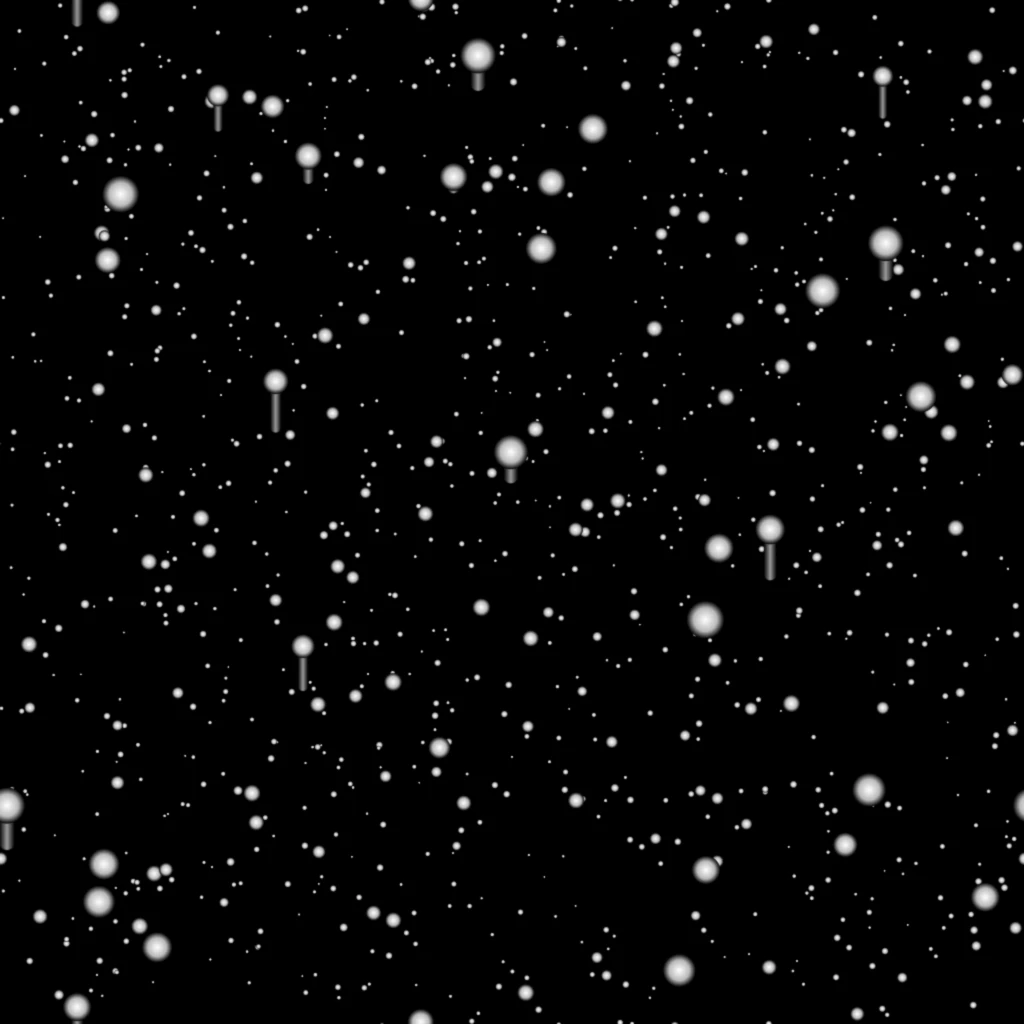
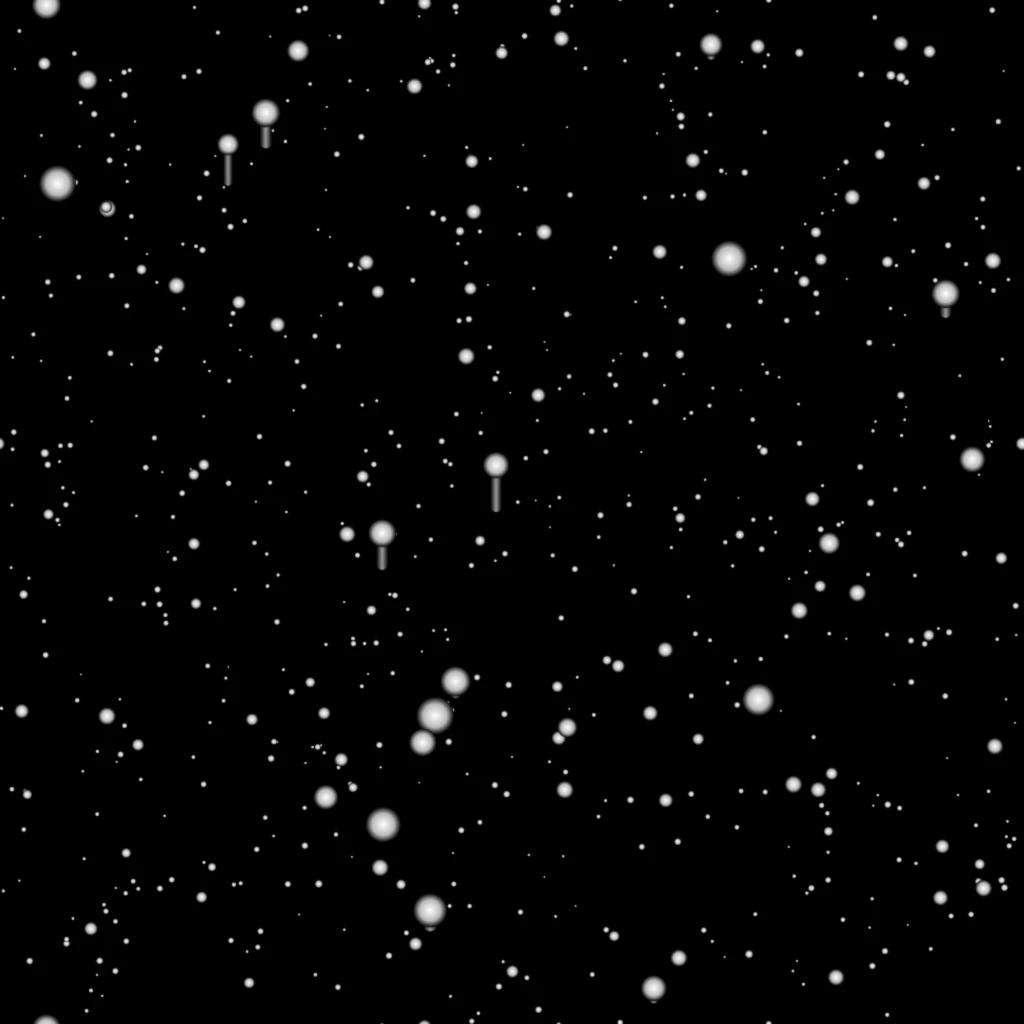
Dial condensation down a notch; force motion for everyone
Droplet counts 900/160/34 -> 600/105/22, bumpScale 1.6 -> 1.25.

Site policy (Josh, 2026-08-26): this page exists to showcase motion,
so prefers-reduced-motion is intentionally not honored — the CSS
reduce block is gone, the engine runs for all visitors, and the
regression suite now asserts the animations still play under an
emulated reduce setting.

diff --git a/src/main.js b/src/main.js
@@ -16,7 +16,10 @@
  * Layout reads are cached on resize; the loop only writes transforms.
  */
 
-const motionOK = !matchMedia('(prefers-reduced-motion: reduce)').matches;
+// Deliberate choice (Josh, 2026-08-26): this site IS the animation showcase,
+// so prefers-reduced-motion is intentionally not honored — everyone gets the
+// full experience.
+const motionOK = true;
 const vp = { w: innerWidth, h: innerHeight };
 
 // ── scroll + pointer state ───────────────────────────────────────────────
@@ -102,7 +105,7 @@ const cardEl = document.querySelector('.spin-card');
 // ── the real-time three.js can is the default experience ─────────────────
 // Full 360° with an eased dwell at 180° so the back panel gets read time.
 // ?classic=1 forces the scrubbed-frames version; WebGL failures fall back
-// to it automatically, and reduced-motion users get the static frame.
+// to it automatically.
 const USE_3D = !new URLSearchParams(location.search).has('classic');
 let can3d = null;
 function angle360(pr) {
@@ -230,7 +233,7 @@ function updateSpin() {
 // start pulling the spin's assets when the section is approaching — but
 // never before the page itself has finished loading
 if (spinSection) {
-  const start = () => (USE_3D && motionOK ? boot3D() : loadFrames());
+  const start = () => (USE_3D ? boot3D() : loadFrames());
   const arm = () => new IntersectionObserver((entries, io) => {
     if (entries.some((e) => e.isIntersecting)) { start(); io.disconnect(); }
   }, { rootMargin: USE_3D ? '160% 0%' : '80% 0%' }).observe(spinSection);

diff --git a/src/style.css b/src/style.css
@@ -43,7 +43,6 @@
 * { margin: 0; padding: 0; box-sizing: border-box; }
 
 html { scroll-behavior: smooth; }
-@media (prefers-reduced-motion: reduce) { html { scroll-behavior: auto; } }
 
 body {
   background: var(--ink);
@@ -617,20 +616,4 @@ img { max-width: 100%; height: auto; display: block; }
   .hero-can-wrap { width: clamp(200px, 44vw, 300px); }
 }
 
-/* ── reduced motion: everything static, everything visible ────────────── */
 
-@media (prefers-reduced-motion: reduce) {
-  .grain, .scroll-cue span { animation: none; }
-  .hero-can-wrap { animation: none; }
-  .reveal { opacity: 1; transform: none; transition: none; }
-  .spin { height: auto; }
-  .spin-stage { position: relative; }
-  .spin-caption { position: relative; opacity: 1; transform: none; inset: auto; margin: 20px; }
-  .spin-card {
-    position: relative; left: auto; top: auto;
-    transform: none !important; opacity: 1 !important;
-    pointer-events: auto; margin: 30px auto;
-  }
-  .clip-reveal { clip-path: none; }
-  [data-speed], [data-depth], [data-inner-speed] { transform: none !important; }
-}

diff --git a/src/can3d.js b/src/can3d.js
@@ -81,7 +81,7 @@ export function createCan3D(container) {
     roughnessMap: dropsRough,
     metalness: 0.12,
     bumpMap: dropsHeight,
-    bumpScale: 1.6,
+    bumpScale: 1.25,
     envMapIntensity: 0.3,
   });
   const darkMetal = new THREE.MeshStandardMaterial({ color: 0x15181a, roughness: 0.5, metalness: 0.6 });

diff --git a/README.md b/README.md
@@ -24,8 +24,9 @@ then the site was built around the assets.
   tiled at three scales, masked away from the subject.
 
 All motion is transform-only, driven by one rAF loop writing a `--plx` CSS
-variable, with cached layout reads. `prefers-reduced-motion` gets a fully
-static page.
+variable, with cached layout reads. **Deliberate policy:** this site exists to
+showcase motion, so `prefers-reduced-motion` is intentionally not honored —
+the regression suite asserts the animations still run under it.
 
 ## Asset pipeline
 
